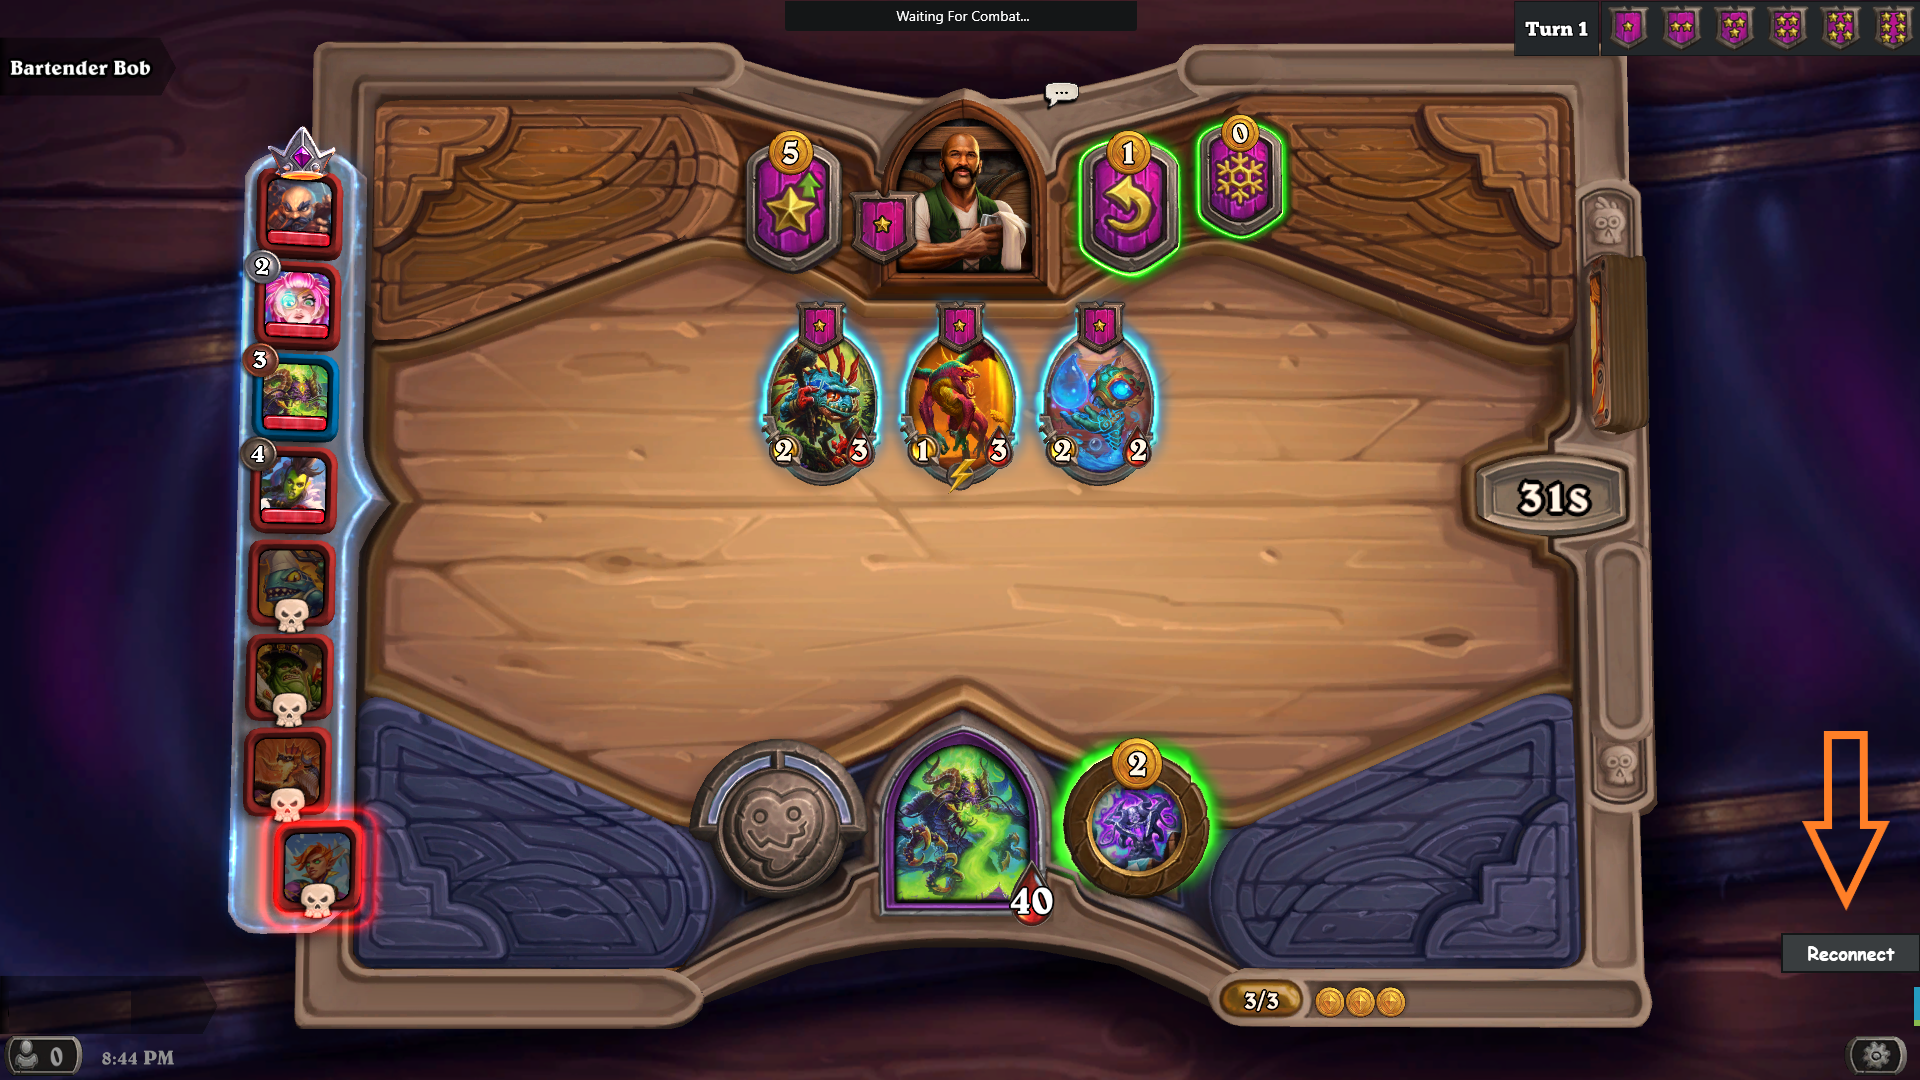
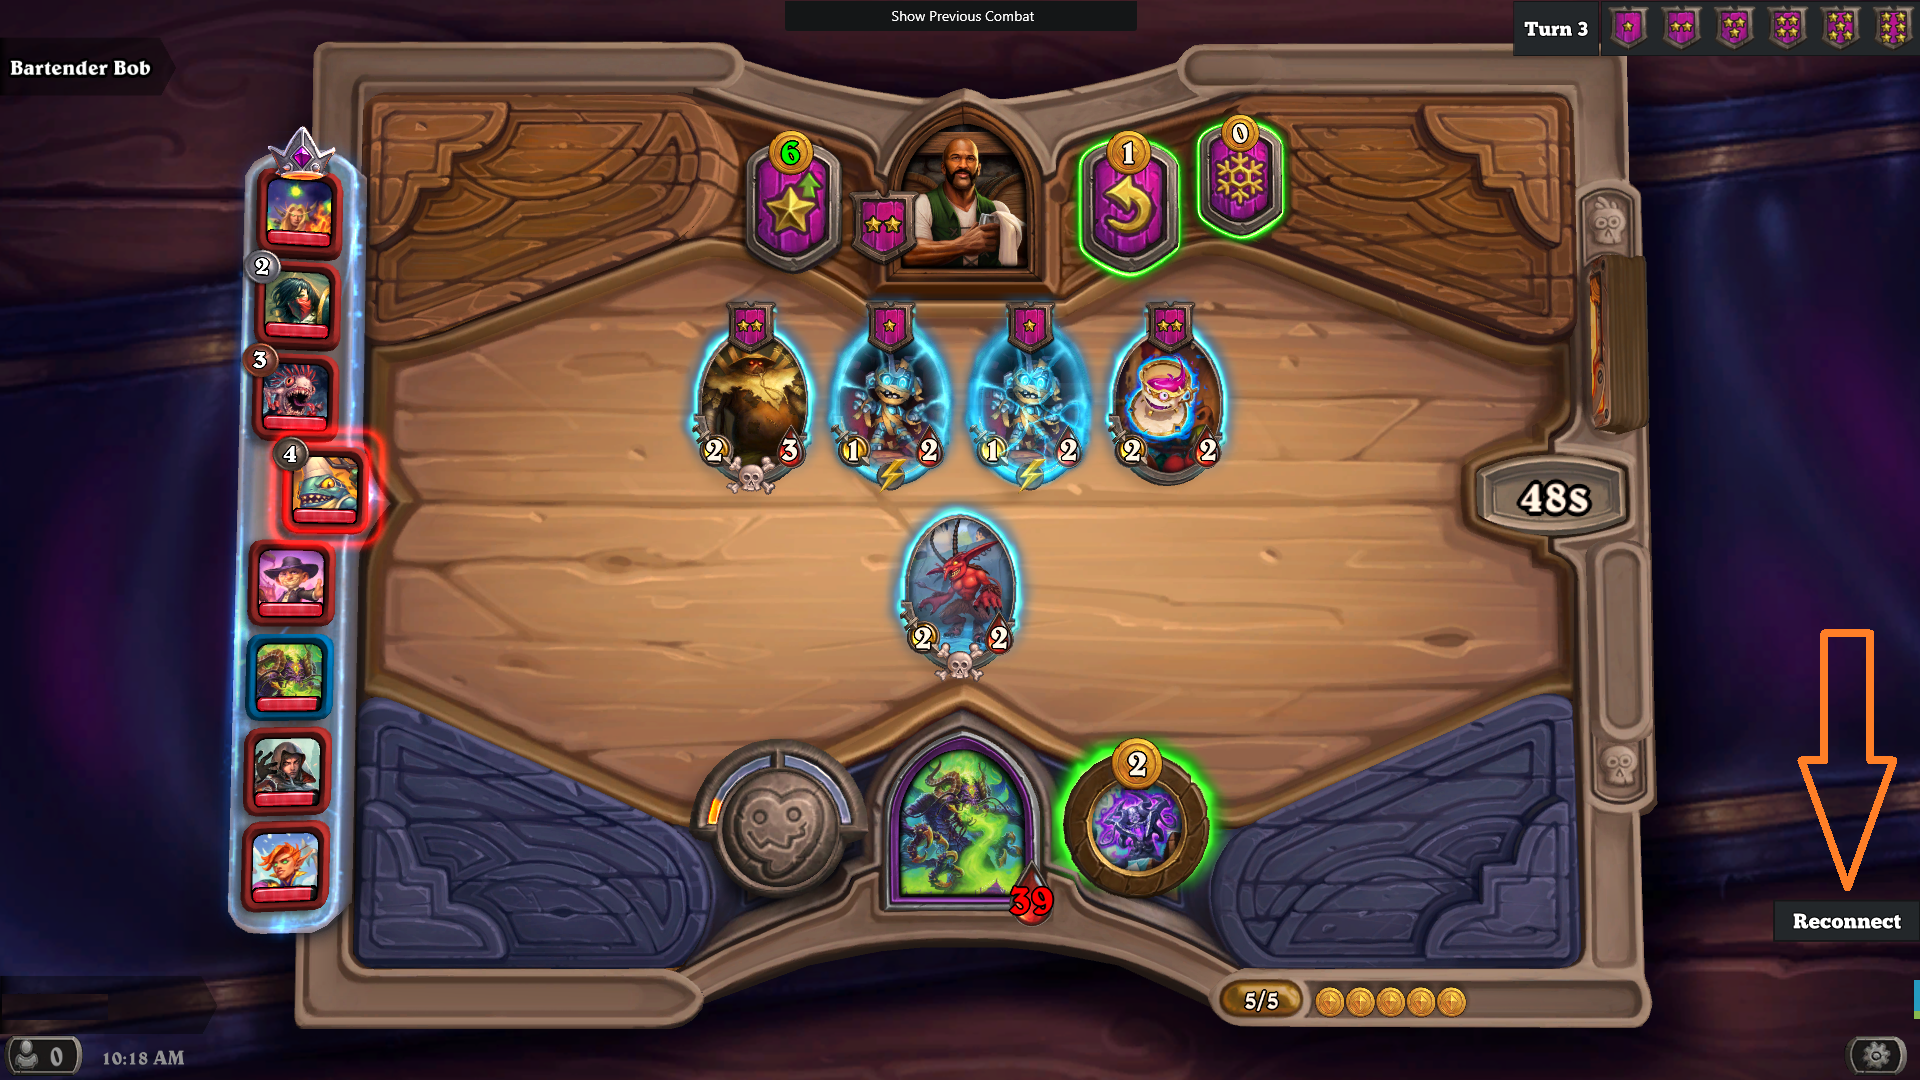
Make button movable both in menu and match

diff --git a/HDT-Reconnector/ReconnectPanel.xaml.cs b/HDT-Reconnector/ReconnectPanel.xaml.cs
@@ -20,6 +20,7 @@ using Hearthstone_Deck_Tracker.Enums.Hearthstone;
 using Hearthstone_Deck_Tracker.Utility.Logging;
 using HDT_Reconnector.LogHandler;
 using System.Windows.Controls.Primitives;
+using Hearthstone_Deck_Tracker.Utility.Extensions;
 
 namespace HDT_Reconnector
 {
@@ -45,12 +46,16 @@ namespace HDT_Reconnector
             InitializeComponent();
             Settings.Load();
 
+            Visibility = Visibility.Collapsed;
             oriBrush = ReconnectButton.Background;
 
             resizeGrip = new ResizeGrip();
             resizeGrip.MouseDown += ResizeGrip_MouseDown;
             resizeGrip.MouseMove += ResizeGrip_MouseMove;
             resizeGrip.MouseUp += ResizeGrip_MouseUp;
+            resizeGrip.Visibility = Visibility.Collapsed;
+            OverlayExtensions.SetIsOverlayHitTestVisible(resizeGrip, true);
+
             AddToOverlayWindowPrivate();
 
             UpdatePosition();
@@ -71,14 +76,10 @@ namespace HDT_Reconnector
 
         public void OnUpdate()
         {
-            if (Visibility != Visibility.Visible && !Core.Game.IsInMenu)
-            {
-                Visibility = Visibility.Visible;
-            }
-            else if (Visibility != Visibility.Hidden && Core.Game.IsInMenu)
-            {
-                Visibility = Visibility.Hidden;
-            }
+            // Show reconnect button:
+            // 1. When we want to resize to move it in menu
+            // 2. When we're in the match
+            Visibility = Core.Game.IsInMenu? resizeGrip.Visibility : Visibility.Visible;
 
             if (reconnect.Status == Reconnector.CONNECTION_STATUS.DISCONNECTED)
             {

diff --git a/HDT-Reconnector/ReconnectPanel.resize.cs b/HDT-Reconnector/ReconnectPanel.resize.cs
@@ -60,7 +60,6 @@ namespace HDT_Reconnector
 
         private void ResizeGrip_MouseDown(object sender, MouseButtonEventArgs e)
         {
-            Log.Info("ResizeGrip_MouseDown");
             resizeGrip.CaptureMouse();
             lmbDown = true;
             var pos = User32.GetMousePos();

diff --git a/README.md b/README.md
@@ -17,6 +17,9 @@ HDT-Reconnector controls Hearthstone's TCP connections to disconnect the game, s
 2. In game, when you need to disconnect the game, just click the Reconnect button.
 3. Enjoy it!
 
+# Settings
+1. Move/Resize button - Unlock the ui in `Options -> Overlay -> General -> Unlock Overlay`. Sometimes HDT doesn't show the unlock ui properly and you're unable to move the button, in this case just lock and unlock it.
+
 # Known issues
 After several disconnect and reconnect, the game may crash. It's not a plugin issue, but a Hearthstone's bug.
 
